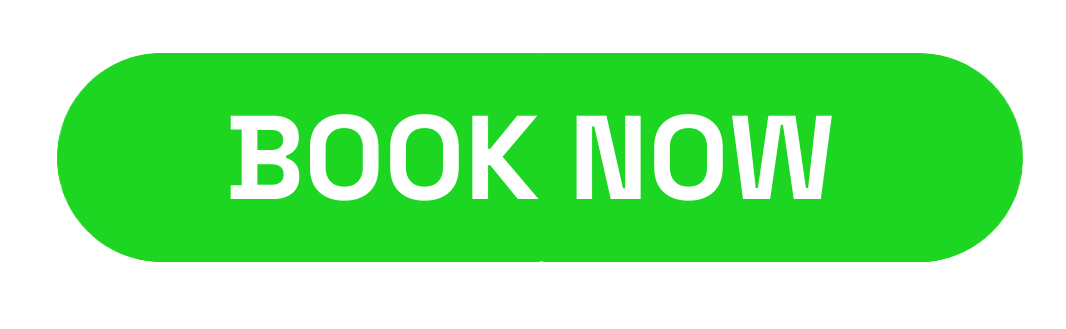
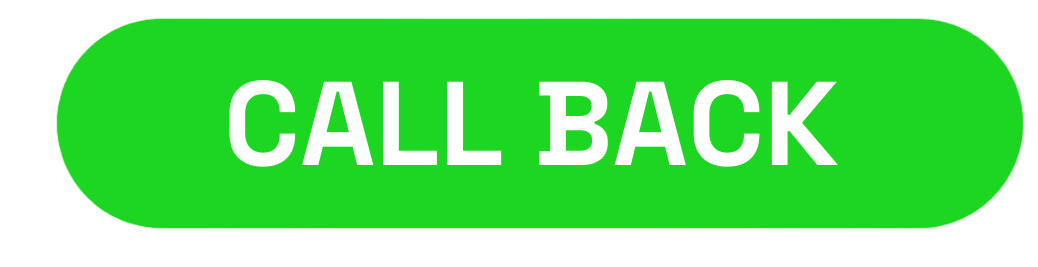
22feb

Changed region(s): [[0.0617, 0.0599, 0.9865, 0.8689], [0.2158, 0.2996, 0.8015, 0.6292], [0.0617, 0.6292, 0.0925, 0.7491]]

diff --git a/reviews.html b/reviews.html
@@ -10,7 +10,7 @@
 
     <link rel="stylesheet" href="css/open-iconic-bootstrap.min.css">
     <link rel="stylesheet" href="css/animate.css">
-	<link rel="icon" href="images/lo2.png">
+	  <link rel="icon" href="images/lo2.png">
     
     <link rel="stylesheet" href="css/owl.carousel.min.css">
     <link rel="stylesheet" href="css/owl.theme.default.min.css">
@@ -46,7 +46,7 @@
           <li class="nav-item"><a href="Gallery.html" class="nav-link">Gallery</a></li>
 		  <li class="nav-item active"><a href="reviews.html" class="nav-link">Reviews</a></li>
           <li class="nav-item"><a href="contact.html" class="nav-link">Contact</a></li>
-          <li class="nav-item cta"><a href="contact.html" class="nav-link"><span>Add listing</span></a></li>
+          <li class="nav-item cta "><a href="#" class="nav-link "><span>Book Now</span></a></li>
         </ul>
       </div>
     </div>
@@ -64,6 +64,32 @@
         </div>
       </div>
   <!-- reviews Start-->
+  <div style="display: flex;position: sticky;top: 0;z-index: 100000;">
+    <a href="https://wa.link/zt2tjo"> <img src="./images/whatsapp.png" class="whatsapp"  ></a>
+ </div>
+<div style="display: flex;position: sticky;top: 0;z-index: 100000;">
+    <a href="#"> <img src="./images/Book-Now.png" class="booknow blink"  ></a>
+ </div>
+<div class="bookForm">
+<div class="d-flex justify-content-end">
+  <img src="./images/close-outline.svg" width="50px" class="call-btn">
+</div>
+ 
+<h2 style="color: #0D7A3B;">GET A CALL BACK</h2>
+<small>I'll get back to you as quickly as possible</small>
+
+<form action="#">
+  <input placeholder="Name" type="text" required />
+  <input placeholder="Email" type="email" required />
+  <input placeholder="Mobile Number" type="number" required />
+  <input placeholder="Travel Date" type="date" required />
+  <input placeholder="Number Of Members" type="number" required />
+  <textarea placeholder="Message"></textarea>
+  <input class="formBtn" type="submit" />
+  <input class="formBtn" type="reset" />
+</form>
+</div>
+
   <body><section id="testimonials">
     <!--heading--->
     <div class="testimonial-heading">

diff --git a/Gallery.html b/Gallery.html
@@ -46,7 +46,7 @@
           <li class="nav-item active"><a href="Gallery.html" class="nav-link">Gallery</a></li>
 		  <li class="nav-item"><a href="reviews.html" class="nav-link">Reviews</a></li>
           <li class="nav-item"><a href="contact.html" class="nav-link">Contact</a></li>
-          <li class="nav-item cta"><a href="contact.html" class="nav-link"><span>Add listing</span></a></li>
+          <li class="nav-item cta "><a href="#" class="nav-link "><span>Book Now</span></a></li>
         </ul>
       </div>
     </div>
@@ -54,6 +54,7 @@
     <!-- END nav -->
     
     <div class="hero-wrap js-fullheight" style="background-image: url('images/bg_2.jpg');">
+      
       <div class="overlay"></div>
       <div class="container">
         <div class="row no-gutters slider-text js-fullheight align-items-center justify-content-center" data-scrollax-parent="true">
@@ -64,7 +65,31 @@
         </div>
       </div>
     </div>
-
+    <div style="display: flex;position: sticky;top: 0;z-index: 100000;">
+      <a href="https://wa.link/zt2tjo"> <img src="./images/whatsapp.png" class="whatsapp"  ></a>
+   </div>
+ <div style="display: flex;position: sticky;top: 0;z-index: 100000;">
+      <a href="#"> <img src="./images/Book-Now.png" class="booknow blink"  ></a>
+   </div>
+ <div class="bookForm">
+  <div class="d-flex justify-content-end">
+    <img src="./images/close-outline.svg" width="50px" class="call-btn">
+  </div>
+   
+  <h2 style="color: #0D7A3B;">GET A CALL BACK</h2>
+  <small>I'll get back to you as quickly as possible</small>
+  
+  <form action="#">
+    <input placeholder="Name" type="text" required />
+    <input placeholder="Email" type="email" required />
+    <input placeholder="Mobile Number" type="number" required />
+    <input placeholder="Travel Date" type="date" required />
+    <input placeholder="Number Of Members" type="number" required />
+    <textarea placeholder="Message"></textarea>
+    <input class="formBtn" type="submit" />
+    <input class="formBtn" type="reset" />
+  </form>
+</div>
 <!-- Gallery Start-->
 <section>
   <div  class="container">

diff --git a/Packages.html b/Packages.html
@@ -47,7 +47,7 @@
           <li class="nav-item"><a href="Gallery.html" class="nav-link">Gallery</a></li>
 		  <li class="nav-item"><a href="reviews.html" class="nav-link">Reviews</a></li>
           <li class="nav-item"><a href="contact.html" class="nav-link">Contact</a></li>
-          <li class="nav-item cta"><a href="contact.html" class="nav-link"><span>Add listing</span></a></li>
+          <li class="nav-item cta "><a href="#" class="nav-link "><span>Book Now</span></a></li>
         </ul>
       </div>
     </div>
@@ -66,8 +66,31 @@
         </div>
       </div>
     </div>
-
-
+	<div style="display: flex;position: sticky;top: 0;z-index: 100000;">
+        <a href="https://wa.link/zt2tjo"> <img src="./images/whatsapp.png" class="whatsapp"  ></a>
+     </div>
+	 <div style="display: flex;position: sticky;top: 0;z-index: 100000;">
+        <a href="#"> <img src="./images/Book-Now.png" class="booknow blink"  ></a>
+     </div>
+	 <div class="bookForm">
+		<div class="d-flex justify-content-end">
+			<img src="./images/close-outline.svg" width="50px" class="call-btn">
+		</div>
+	   
+		<h2 style="color: #0D7A3B;">GET A CALL BACK</h2>
+		<small>I'll get back to you as quickly as possible</small>
+		
+		<form action="#">
+		  <input placeholder="Name" type="text" required />
+		  <input placeholder="Email" type="email" required />
+		  <input placeholder="Mobile Number" type="number" required />
+		  <input placeholder="Travel Date" type="date" required />
+		  <input placeholder="Number Of Members" type="number" required />
+		  <textarea placeholder="Message"></textarea>
+		  <input class="formBtn" type="submit" />
+		  <input class="formBtn" type="reset" />
+		</form>
+	</div>
     <section class="ftco-section ftco-degree-bg">
       <div class="container">
         <div class="row">

diff --git a/contact.html b/contact.html
@@ -46,7 +46,7 @@
           <li class="nav-item"><a href="Gallery.html" class="nav-link">Gallery</a></li>
 		  <li class="nav-item"><a href="reviews.html" class="nav-link">Reviews</a></li>
           <li class="nav-item active"><a href="contact.html" class="nav-link">Contact</a></li>
-          <li class="nav-item cta"><a href="contact.html" class="nav-link"><span>Add listing</span></a></li>
+          <li class="nav-item cta "><a href="#" class="nav-link "><span>Book Now</span></a></li>
         </ul>
       </div>
     </div>
@@ -64,6 +64,31 @@
         </div>
       </div>
     </div>
+    <div style="display: flex;position: sticky;top: 0;z-index: 100000;">
+      <a href="https://wa.link/zt2tjo"> <img src="./images/whatsapp.png" class="whatsapp"  ></a>
+   </div>
+ <div style="display: flex;position: sticky;top: 0;z-index: 100000;">
+      <a href="#"> <img src="./images/Book-Now.png" class="booknow blink"  ></a>
+   </div>
+ <div class="bookForm">
+  <div class="d-flex justify-content-end">
+    <img src="./images/close-outline.svg" width="50px" class="call-btn">
+  </div>
+   
+  <h2 style="color: #0D7A3B;">GET A CALL BACK</h2>
+  <small>I'll get back to you as quickly as possible</small>
+  
+  <form action="#">
+    <input placeholder="Name" type="text" required />
+    <input placeholder="Email" type="email" required />
+    <input placeholder="Mobile Number" type="number" required />
+    <input placeholder="Travel Date" type="date" required />
+    <input placeholder="Number Of Members" type="number" required />
+    <textarea placeholder="Message"></textarea>
+    <input class="formBtn" type="submit" />
+    <input class="formBtn" type="reset" />
+  </form>
+</div>
 
 		<section class="ftco-section contact-section ftco-degree-bg">
       <div class="container">

diff --git a/destinations.html b/destinations.html
@@ -47,7 +47,7 @@
           <li class="nav-item"><a href="Gallery.html" class="nav-link">Gallery</a></li>
 		  <li class="nav-item"><a href="reviews.html" class="nav-link">Reviews</a></li>
           <li class="nav-item"><a href="contact.html" class="nav-link">Contact</a></li>
-          <li class="nav-item cta"><a href="contact.html" class="nav-link"><span>Add listing</span></a></li>
+          <li class="nav-item cta "><a href="#" class="nav-link "><span>Book Now</span></a></li>
         </ul>
       </div>
     </div>
@@ -66,6 +66,31 @@
       </div>
     </div>
 
+	<div style="display: flex;position: sticky;top: 0;z-index: 100000;">
+        <a href="https://wa.link/zt2tjo"> <img src="./images/whatsapp.png" class="whatsapp"  ></a>
+     </div>
+	 <div style="display: flex;position: sticky;top: 0;z-index: 100000;">
+        <a href="#"> <img src="./images/Book-Now.png" class="booknow blink"  ></a>
+     </div>
+	 <div class="bookForm">
+		<div class="d-flex justify-content-end">
+			<img src="./images/close-outline.svg" width="50px" class="call-btn">
+		</div>
+	   
+		<h2 style="color: #0D7A3B;">GET A CALL BACK</h2>
+		<small>I'll get back to you as quickly as possible</small>
+		
+		<form action="#">
+		  <input placeholder="Name" type="text" required />
+		  <input placeholder="Email" type="email" required />
+		  <input placeholder="Mobile Number" type="number" required />
+		  <input placeholder="Travel Date" type="date" required />
+		  <input placeholder="Number Of Members" type="number" required />
+		  <textarea placeholder="Message"></textarea>
+		  <input class="formBtn" type="submit" />
+		  <input class="formBtn" type="reset" />
+		</form>
+	</div>
 <!-- destination Start-->
 <section class="ftco-section ftco-destination">
 	<div class="container">

diff --git a/hotel.html b/hotel.html
@@ -46,7 +46,7 @@
           <li class="nav-item"><a href="Gallery.html" class="nav-link">Gallery</a></li>
 		  <li class="nav-item"><a href="reviews.html" class="nav-link">Reviews</a></li>
           <li class="nav-item"><a href="contact.html" class="nav-link">Contact</a></li>
-          <li class="nav-item cta"><a href="contact.html" class="nav-link"><span>Add listing</span></a></li>
+          <li class="nav-item cta "><a href="#" class="nav-link "><span>Book Now</span></a></li>
         </ul>
       </div>
     </div>
@@ -64,6 +64,31 @@
         </div>
       </div>
     </div>
+	<div style="display: flex;position: sticky;top: 0;z-index: 100000;">
+        <a href="https://wa.link/zt2tjo"> <img src="./images/whatsapp.png" class="whatsapp"  ></a>
+     </div>
+	 <div style="display: flex;position: sticky;top: 0;z-index: 100000;">
+        <a href="#"> <img src="./images/Book-Now.png" class="booknow blink"  ></a>
+     </div>
+	 <div class="bookForm">
+		<div class="d-flex justify-content-end">
+			<img src="./images/close-outline.svg" width="50px" class="call-btn">
+		</div>
+	   
+		<h2 style="color: #0D7A3B;">GET A CALL BACK</h2>
+		<small>I'll get back to you as quickly as possible</small>
+		
+		<form action="#">
+		  <input placeholder="Name" type="text" required />
+		  <input placeholder="Email" type="email" required />
+		  <input placeholder="Mobile Number" type="number" required />
+		  <input placeholder="Travel Date" type="date" required />
+		  <input placeholder="Number Of Members" type="number" required />
+		  <textarea placeholder="Message"></textarea>
+		  <input class="formBtn" type="submit" />
+		  <input class="formBtn" type="reset" />
+		</form>
+	</div>
 
 	<section class="ftco-section">
     	<div class="container">

diff --git a/css/style.css b/css/style.css
@@ -7360,7 +7360,8 @@ h1, h2, h3, h4, h5,
     -webkit-border-radius: 30px;
     -moz-border-radius: 30px;
     -ms-border-radius: 30px;
-    border-radius: 30px; }
+    border-radius: 30px;
+  background: #0D7A3B; }
     .ftco-navbar-light .navbar-nav > .nav-item.cta > a span {
       display: inline-block;
       color: #fff; }
@@ -9460,13 +9461,13 @@ textarea.form-control {
   }
 @media (min-width:500px){
 .whatsapp{
-  width: 5%;position: absolute;top: 400px;left: 0;border-radius: 50%;
+  width: 5%;position: absolute;top: 578px;left: 10px;border-radius: 50%;
   }
 }
 
 @media (max-width:500px){
   .whatsapp{
-    width: 12%;position: absolute;top: 193px;left: 0;border-radius: 50%;
+    width: 12%;position: absolute;top: 529px;left: 0;border-radius: 50%;
   }
   }
   .container--gallery {
@@ -9582,17 +9583,33 @@ textarea { height: 80px; resize: none; }
 }
 @media (min-width:500px){
   .booknow{
-    position: absolute;top: 400px;right: 0;
-    width: 20%;
-    height: 90px;
+    position: absolute;top: 578px;right: 0;
+    width: 16%;
+    height: 64px;
     
     }
   }
   
   @media (max-width:500px){
     .booknow{
-      position: absolute;top: 469px;right: 0;
-      width: 45%;
-    height: 57px;
+      position: absolute;top: 529px;right: 0;
+      width: 42%;
+    height: 49px;
     }
   }
+/* Blink for Webkit and others
+(Chrome, Safari, Firefox, IE, ...)
+*/
+
+@-webkit-keyframes blinker {
+  from {opacity: 1.0;}
+  to {opacity: 0.0;}
+}
+.blink{
+	text-decoration: blink;
+	-webkit-animation-name: blinker;
+	-webkit-animation-duration: 0.8s;
+	-webkit-animation-iteration-count:infinite;
+	-webkit-animation-timing-function:ease-in-out;
+	-webkit-animation-direction: alternate;
+}

diff --git a/index.html b/index.html
@@ -46,7 +46,7 @@
           <li class="nav-item"><a href="Gallery.html" class="nav-link">Gallery</a></li>
 		  <li class="nav-item"><a href="reviews.html" class="nav-link">Reviews</a></li>
           <li class="nav-item"><a href="contact.html" class="nav-link">Contact</a></li>
-          <li class="nav-item cta"><a href="contact.html" class="nav-link"><span>Add listing</span></a></li>
+          <li class="nav-item cta "><a href="#" class="nav-link "><span>Book Now</span></a></li>
         </ul>
       </div>
     </div>
@@ -95,7 +95,7 @@
         <a href="https://wa.link/zt2tjo"> <img src="./images/whatsapp.png" class="whatsapp"  ></a>
      </div>
 	 <div style="display: flex;position: sticky;top: 0;z-index: 100000;">
-        <a href="#"> <img src="./images/Book-Now.png" class="booknow"  ></a>
+        <a href="#"> <img src="./images/Book-Now.png" class="booknow blink"  ></a>
      </div>
 
     <section class="ftco-section services-section bg-light">

diff --git a/js/main.js b/js/main.js
@@ -411,3 +411,27 @@ $(document).ready(function() {
 	});
 	
   });
+  $(function() {
+  
+	// contact form animations
+	$('.cta').click(function() {
+	  $('.bookForm').fadeToggle();
+	})
+	$(document).mouseup(function (e) {
+	  var container = $(".bookForm");
+  
+	  if (!container.is(e.target) // if the target of the click isn't the container...
+		  && container.has(e.target).length === 0) // ... nor a descendant of the container
+	  {
+		  container.fadeOut();
+	  }
+	});
+	
+  });
+  $(document).ready(function(){
+	$('.call-btn').click(function (e) { 
+		$('.bookForm').hide();
+		
+	  });
+	
+  });
